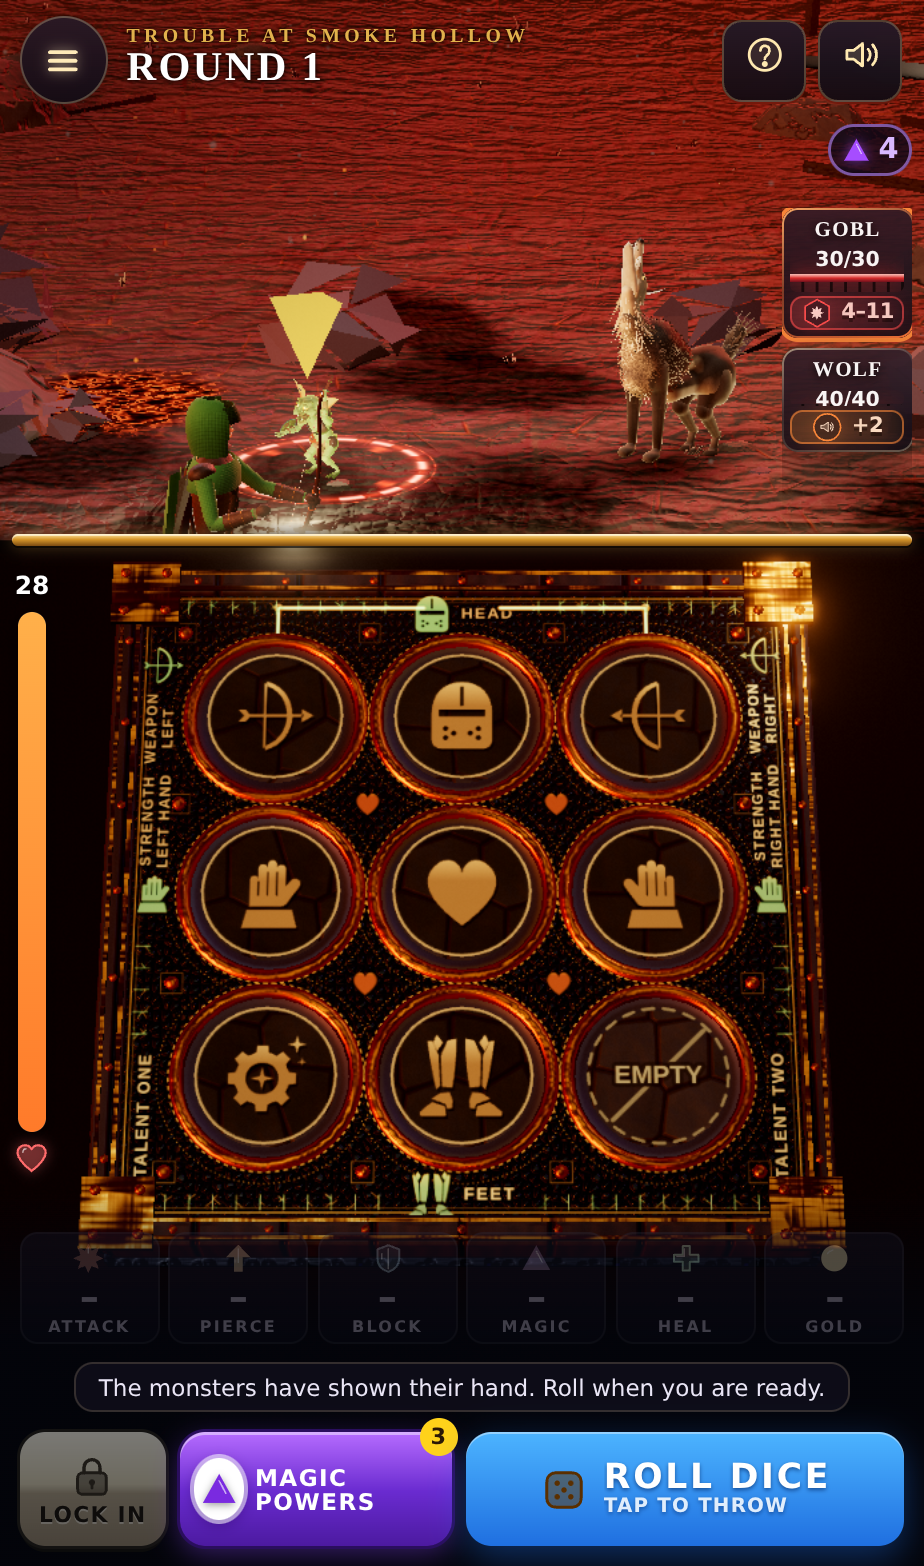
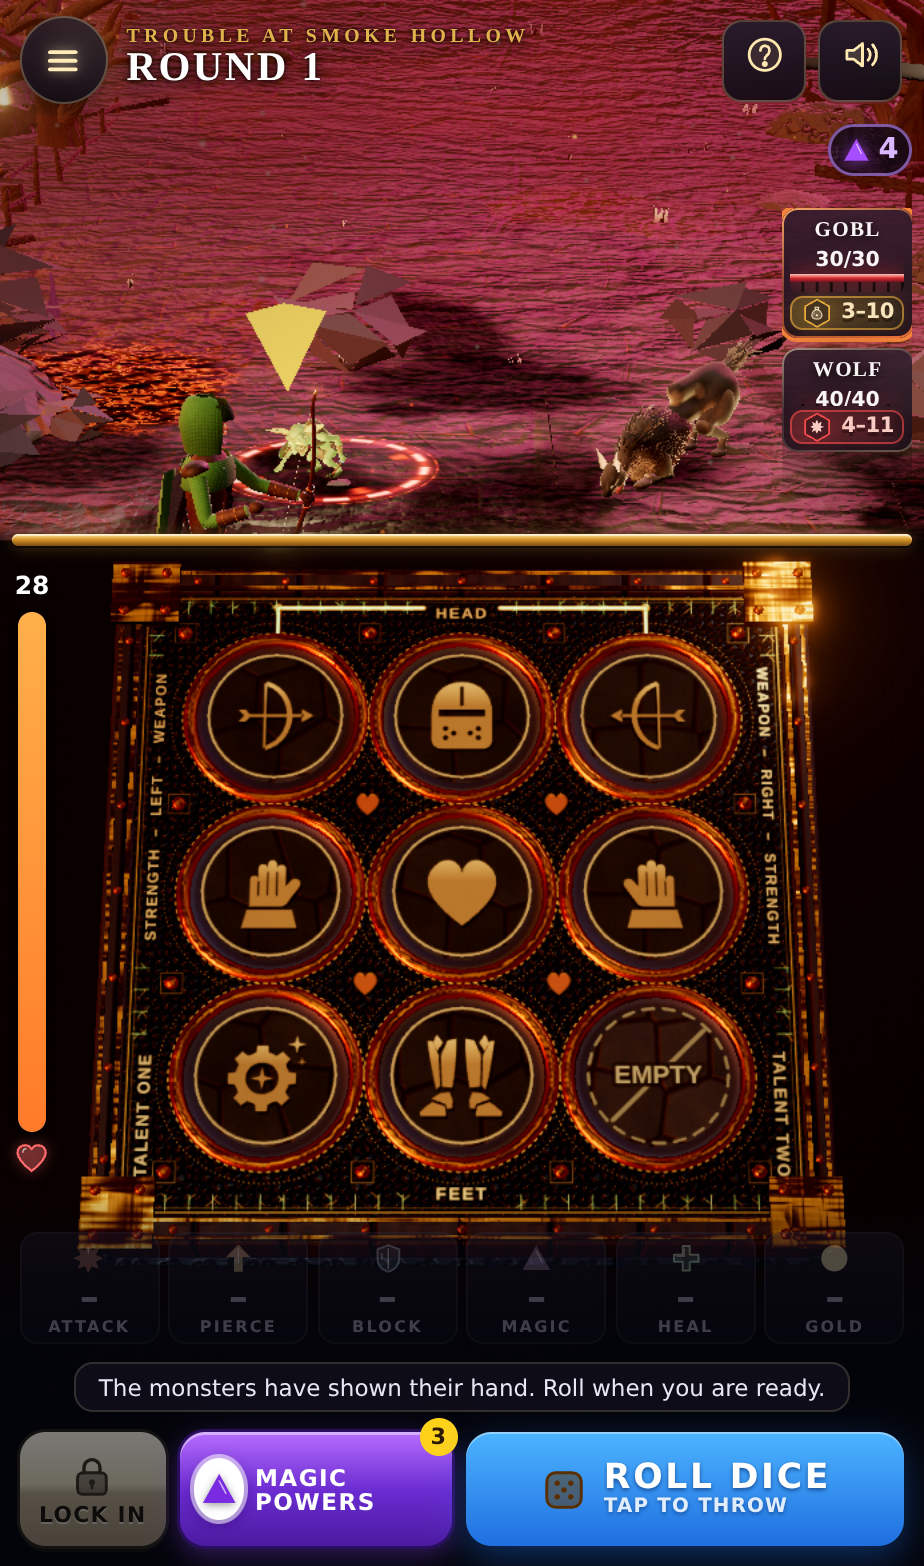
Border: names only; one line per side, STRENGTH – LEFT – WEAPON and its mirror
Claude-Session: https://claude.ai/code/session_01DujDBar2Jc6ufUDBkRgkDu

diff --git a/index.html b/index.html
@@ -5,7 +5,7 @@
   <meta name="viewport" content="width=device-width, initial-scale=1, viewport-fit=cover">
   <meta name="theme-color" content="#04060d">
   <title>QuestDice</title>
-  <script type="importmap">{"imports":{"three":"./vendor/three/build/three.module.js","three/addons/":"./vendor/three/examples/jsm/","./js/auction.js":"./js/auction.js?v=20261007h","./js/audio.js":"./js/audio.js?v=20261007h","./js/coach.js":"./js/coach.js?v=20261007h","./js/data.js":"./js/data.js?v=20261007h","./js/die3d.js":"./js/die3d.js?v=20261007h","./js/dom.js":"./js/dom.js?v=20261007h","./js/engine.js":"./js/engine.js?v=20261007h","./js/fx.js":"./js/fx.js?v=20261007h","./js/g3/battle3d.js":"./js/g3/battle3d.js?v=20261007h","./js/g3/director.js":"./js/g3/director.js?v=20261007h","./js/g3/hudkit.js":"./js/g3/hudkit.js?v=20261007h","./js/g3/icons.js":"./js/g3/icons.js?v=20261007h","./js/g3/portrait.js":"./js/g3/portrait.js?v=20261007h","./js/g3/screens.js":"./js/g3/screens.js?v=20261007h","./js/g3/scrui.js":"./js/g3/scrui.js?v=20261007h","./js/g3/stubs.js":"./js/g3/stubs.js?v=20261007h","./js/g3/world.js":"./js/g3/world.js?v=20261007h","./js/gfx/actors/base.js":"./js/gfx/actors/base.js?v=20261007h","./js/gfx/actors/common.js":"./js/gfx/actors/common.js?v=20261007h","./js/gfx/actors/cultist.js":"./js/gfx/actors/cultist.js?v=20261007h","./js/gfx/actors/goblin.js":"./js/gfx/actors/goblin.js?v=20261007h","./js/gfx/actors/goblinking.js":"./js/gfx/actors/goblinking.js?v=20261007h","./js/gfx/actors/hero.js":"./js/gfx/actors/hero.js?v=20261007h","./js/gfx/actors/heroclips.js":"./js/gfx/actors/heroclips.js?v=20261007h","./js/gfx/actors/herocloth.js":"./js/gfx/actors/herocloth.js?v=20261007h","./js/gfx/actors/herokit.js":"./js/gfx/actors/herokit.js?v=20261007h","./js/gfx/actors/index.js":"./js/gfx/actors/index.js?v=20261007h","./js/gfx/actors/ogre.js":"./js/gfx/actors/ogre.js?v=20261007h","./js/gfx/actors/parts.js":"./js/gfx/actors/parts.js?v=20261007h","./js/gfx/actors/parts2.js":"./js/gfx/actors/parts2.js?v=20261007h","./js/gfx/actors/wolf.js":"./js/gfx/actors/wolf.js?v=20261007h","./js/gfx/arena.js":"./js/gfx/arena.js?v=20261007h","./js/gfx/arena/common.js":"./js/gfx/arena/common.js?v=20261007h","./js/gfx/arena/flora.js":"./js/gfx/arena/flora.js?v=20261007h","./js/gfx/arena/fx.js":"./js/gfx/arena/fx.js?v=20261007h","./js/gfx/arena/ground.js":"./js/gfx/arena/ground.js?v=20261007h","./js/gfx/arena/helpers.js":"./js/gfx/arena/helpers.js?v=20261007h","./js/gfx/arena/kit.js":"./js/gfx/arena/kit.js?v=20261007h","./js/gfx/arena/places1.js":"./js/gfx/arena/places1.js?v=20261007h","./js/gfx/arena/places2.js":"./js/gfx/arena/places2.js?v=20261007h","./js/gfx/arena/props.js":"./js/gfx/arena/props.js?v=20261007h","./js/gfx/arena/sky.js":"./js/gfx/arena/sky.js?v=20261007h","./js/gfx/arena/tex.js":"./js/gfx/arena/tex.js?v=20261007h","./js/gfx/core.js":"./js/gfx/core.js?v=20261007h","./js/gfx/demo/actor.js":"./js/gfx/demo/actor.js?v=20261007h","./js/gfx/demo/arena.js":"./js/gfx/demo/arena.js?v=20261007h","./js/gfx/demo/dicegallery.js":"./js/gfx/demo/dicegallery.js?v=20261007h","./js/gfx/demo/dicelab.js":"./js/gfx/demo/dicelab.js?v=20261007h","./js/gfx/demo/materials.js":"./js/gfx/demo/materials.js?v=20261007h","./js/gfx/demo/tray.js":"./js/gfx/demo/tray.js?v=20261007h","./js/gfx/demo/vfx.js":"./js/gfx/demo/vfx.js?v=20261007h","./js/gfx/demo/weapons.js":"./js/gfx/demo/weapons.js?v=20261007h","./js/gfx/dice/art.js":"./js/gfx/dice/art.js?v=20261007h","./js/gfx/dice/dice.js":"./js/gfx/dice/dice.js?v=20261007h","./js/gfx/dice/faces.js":"./js/gfx/dice/faces.js?v=20261007h","./js/gfx/dice/fx.js":"./js/gfx/dice/fx.js?v=20261007h","./js/gfx/dice/poly.js":"./js/gfx/dice/poly.js?v=20261007h","./js/gfx/dice/roll.js":"./js/gfx/dice/roll.js?v=20261007h","./js/gfx/dice/tray.js":"./js/gfx/dice/tray.js?v=20261007h","./js/gfx/env.js":"./js/gfx/env.js?v=20261007h","./js/gfx/mats.js":"./js/gfx/mats.js?v=20261007h","./js/gfx/noise.js":"./js/gfx/noise.js?v=20261007h","./js/gfx/particles.js":"./js/gfx/particles.js?v=20261007h","./js/gfx/post.js":"./js/gfx/post.js?v=20261007h","./js/gfx/rig.js":"./js/gfx/rig.js?v=20261007h","./js/gfx/tex.js":"./js/gfx/tex.js?v=20261007h","./js/gfx/util.js":"./js/gfx/util.js?v=20261007h","./js/gfx/vfx.js":"./js/gfx/vfx.js?v=20261007h","./js/gfx/vfx/quads.js":"./js/gfx/vfx/quads.js?v=20261007h","./js/gfx/vfx/shaders.js":"./js/gfx/vfx/shaders.js?v=20261007h","./js/gfx/vfx/strips.js":"./js/gfx/vfx/strips.js?v=20261007h","./js/gfx/vfx/text.js":"./js/gfx/vfx/text.js?v=20261007h","./js/gfx/vfx/textures.js":"./js/gfx/vfx/textures.js?v=20261007h","./js/gfx/weapons.js":"./js/gfx/weapons.js?v=20261007h","./js/main.js":"./js/main.js?v=20261007h","./js/mat.js":"./js/mat.js?v=20261007h","./js/net.js":"./js/net.js?v=20261007h","./js/roads.js":"./js/roads.js?v=20261007h","./js/roomui.js":"./js/roomui.js?v=20261007h","./js/save.js":"./js/save.js?v=20261007h","./js/table.js":"./js/table.js?v=20261007h","./js/ui.js":"./js/ui.js?v=20261007h","./js/view.js":"./js/view.js?v=20261007h"}}</script>
+  <script type="importmap">{"imports":{"three":"./vendor/three/build/three.module.js","three/addons/":"./vendor/three/examples/jsm/","./js/auction.js":"./js/auction.js?v=20261007i","./js/audio.js":"./js/audio.js?v=20261007i","./js/coach.js":"./js/coach.js?v=20261007i","./js/data.js":"./js/data.js?v=20261007i","./js/die3d.js":"./js/die3d.js?v=20261007i","./js/dom.js":"./js/dom.js?v=20261007i","./js/engine.js":"./js/engine.js?v=20261007i","./js/fx.js":"./js/fx.js?v=20261007i","./js/g3/battle3d.js":"./js/g3/battle3d.js?v=20261007i","./js/g3/director.js":"./js/g3/director.js?v=20261007i","./js/g3/hudkit.js":"./js/g3/hudkit.js?v=20261007i","./js/g3/icons.js":"./js/g3/icons.js?v=20261007i","./js/g3/portrait.js":"./js/g3/portrait.js?v=20261007i","./js/g3/screens.js":"./js/g3/screens.js?v=20261007i","./js/g3/scrui.js":"./js/g3/scrui.js?v=20261007i","./js/g3/stubs.js":"./js/g3/stubs.js?v=20261007i","./js/g3/world.js":"./js/g3/world.js?v=20261007i","./js/gfx/actors/base.js":"./js/gfx/actors/base.js?v=20261007i","./js/gfx/actors/common.js":"./js/gfx/actors/common.js?v=20261007i","./js/gfx/actors/cultist.js":"./js/gfx/actors/cultist.js?v=20261007i","./js/gfx/actors/goblin.js":"./js/gfx/actors/goblin.js?v=20261007i","./js/gfx/actors/goblinking.js":"./js/gfx/actors/goblinking.js?v=20261007i","./js/gfx/actors/hero.js":"./js/gfx/actors/hero.js?v=20261007i","./js/gfx/actors/heroclips.js":"./js/gfx/actors/heroclips.js?v=20261007i","./js/gfx/actors/herocloth.js":"./js/gfx/actors/herocloth.js?v=20261007i","./js/gfx/actors/herokit.js":"./js/gfx/actors/herokit.js?v=20261007i","./js/gfx/actors/index.js":"./js/gfx/actors/index.js?v=20261007i","./js/gfx/actors/ogre.js":"./js/gfx/actors/ogre.js?v=20261007i","./js/gfx/actors/parts.js":"./js/gfx/actors/parts.js?v=20261007i","./js/gfx/actors/parts2.js":"./js/gfx/actors/parts2.js?v=20261007i","./js/gfx/actors/wolf.js":"./js/gfx/actors/wolf.js?v=20261007i","./js/gfx/arena.js":"./js/gfx/arena.js?v=20261007i","./js/gfx/arena/common.js":"./js/gfx/arena/common.js?v=20261007i","./js/gfx/arena/flora.js":"./js/gfx/arena/flora.js?v=20261007i","./js/gfx/arena/fx.js":"./js/gfx/arena/fx.js?v=20261007i","./js/gfx/arena/ground.js":"./js/gfx/arena/ground.js?v=20261007i","./js/gfx/arena/helpers.js":"./js/gfx/arena/helpers.js?v=20261007i","./js/gfx/arena/kit.js":"./js/gfx/arena/kit.js?v=20261007i","./js/gfx/arena/places1.js":"./js/gfx/arena/places1.js?v=20261007i","./js/gfx/arena/places2.js":"./js/gfx/arena/places2.js?v=20261007i","./js/gfx/arena/props.js":"./js/gfx/arena/props.js?v=20261007i","./js/gfx/arena/sky.js":"./js/gfx/arena/sky.js?v=20261007i","./js/gfx/arena/tex.js":"./js/gfx/arena/tex.js?v=20261007i","./js/gfx/core.js":"./js/gfx/core.js?v=20261007i","./js/gfx/demo/actor.js":"./js/gfx/demo/actor.js?v=20261007i","./js/gfx/demo/arena.js":"./js/gfx/demo/arena.js?v=20261007i","./js/gfx/demo/dicegallery.js":"./js/gfx/demo/dicegallery.js?v=20261007i","./js/gfx/demo/dicelab.js":"./js/gfx/demo/dicelab.js?v=20261007i","./js/gfx/demo/materials.js":"./js/gfx/demo/materials.js?v=20261007i","./js/gfx/demo/tray.js":"./js/gfx/demo/tray.js?v=20261007i","./js/gfx/demo/vfx.js":"./js/gfx/demo/vfx.js?v=20261007i","./js/gfx/demo/weapons.js":"./js/gfx/demo/weapons.js?v=20261007i","./js/gfx/dice/art.js":"./js/gfx/dice/art.js?v=20261007i","./js/gfx/dice/dice.js":"./js/gfx/dice/dice.js?v=20261007i","./js/gfx/dice/faces.js":"./js/gfx/dice/faces.js?v=20261007i","./js/gfx/dice/fx.js":"./js/gfx/dice/fx.js?v=20261007i","./js/gfx/dice/poly.js":"./js/gfx/dice/poly.js?v=20261007i","./js/gfx/dice/roll.js":"./js/gfx/dice/roll.js?v=20261007i","./js/gfx/dice/tray.js":"./js/gfx/dice/tray.js?v=20261007i","./js/gfx/env.js":"./js/gfx/env.js?v=20261007i","./js/gfx/mats.js":"./js/gfx/mats.js?v=20261007i","./js/gfx/noise.js":"./js/gfx/noise.js?v=20261007i","./js/gfx/particles.js":"./js/gfx/particles.js?v=20261007i","./js/gfx/post.js":"./js/gfx/post.js?v=20261007i","./js/gfx/rig.js":"./js/gfx/rig.js?v=20261007i","./js/gfx/tex.js":"./js/gfx/tex.js?v=20261007i","./js/gfx/util.js":"./js/gfx/util.js?v=20261007i","./js/gfx/vfx.js":"./js/gfx/vfx.js?v=20261007i","./js/gfx/vfx/quads.js":"./js/gfx/vfx/quads.js?v=20261007i","./js/gfx/vfx/shaders.js":"./js/gfx/vfx/shaders.js?v=20261007i","./js/gfx/vfx/strips.js":"./js/gfx/vfx/strips.js?v=20261007i","./js/gfx/vfx/text.js":"./js/gfx/vfx/text.js?v=20261007i","./js/gfx/vfx/textures.js":"./js/gfx/vfx/textures.js?v=20261007i","./js/gfx/weapons.js":"./js/gfx/weapons.js?v=20261007i","./js/main.js":"./js/main.js?v=20261007i","./js/mat.js":"./js/mat.js?v=20261007i","./js/net.js":"./js/net.js?v=20261007i","./js/roads.js":"./js/roads.js?v=20261007i","./js/roomui.js":"./js/roomui.js?v=20261007i","./js/save.js":"./js/save.js?v=20261007i","./js/table.js":"./js/table.js?v=20261007i","./js/ui.js":"./js/ui.js?v=20261007i","./js/view.js":"./js/view.js?v=20261007i"}}</script>
   <meta name="description" content="Roll your body. Break the dark. A fantasy dice campaign for one to six heroes, each on their own phone.">
   <meta property="og:title" content="QuestDice">
   <meta property="og:description" content="Roll your body. Break the dark.">
@@ -13,10 +13,10 @@
   <link rel="preconnect" href="https://fonts.googleapis.com">
   <link rel="preconnect" href="https://fonts.gstatic.com" crossorigin>
   <link href="https://fonts.googleapis.com/css2?family=Archivo+Black&family=Cormorant+Garamond:ital,wght@0,500;0,600;1,500&family=Inter:wght@400;500;600;700&family=Oxanium:wght@500;600;700;800&display=swap" rel="stylesheet">
-  <link rel="stylesheet" href="css/style.css?v=20261007h">
-  <link rel="stylesheet" href="css/g3.css?v=20261007h">
-  <link rel="stylesheet" href="css/screens.css?v=20261007h">
-  <link rel="stylesheet" href="css/hud.css?v=20261007h">
+  <link rel="stylesheet" href="css/style.css?v=20261007i">
+  <link rel="stylesheet" href="css/g3.css?v=20261007i">
+  <link rel="stylesheet" href="css/screens.css?v=20261007i">
+  <link rel="stylesheet" href="css/hud.css?v=20261007i">
 </head>
 <body>
   <div class="app-frame">
@@ -32,6 +32,6 @@
   <div id="toast" role="status"></div>
   <div id="modal"></div>
   <noscript><p style="padding:2rem;color:#fff">QuestDice needs JavaScript.</p></noscript>
-  <script type="module" src="js/main.js?v=20261007h"></script>
+  <script type="module" src="js/main.js?v=20261007i"></script>
 </body>
 </html>

diff --git a/js/gfx/dice/art.js b/js/gfx/dice/art.js
@@ -58,19 +58,10 @@ export function paintDecals({ size, FH, pitch, theme, hero, twoHanded, dishR, we
   const T = (lines, fs) => { a.font = FONT(fs); return { lines, fs, L: Math.max(...lines.map((t) => a.measureText(t).width + t.length * 0.012 * k)) / k }; };
   const IC = 0.3; const GAP = 0.05; const ZW = -(FH - 0.36); // weapon icons sit at the top corners
   const units = [];
-  { // head and feet: icon then name, centred on the top and bottom margins
-    for (const [ic, nm, z, sd] of [['helmet', 'HEAD', -ox, 't'], ['boots', 'FEET', ox, 'b']]) {
-      const t = T([nm], 0.11); const U = IC + GAP + t.L;
-      units.push({ side: sd, x: 0, z, parts: [{ icon: ic, size: 0.31, at: -U / 2 + IC / 2 }, { text: t, at: U / 2 - t.L / 2 }] });
-    }
-  }
-  for (const [sd, flip, wi, wname, hand] of [['l', false, wL, 'LEFT', 'LEFT HAND'], ['r', true, wR, 'RIGHT', 'RIGHT HAND']]) {
-    const ts = T(['STRENGTH', hand], 0.1); const tw = T(['WEAPON', wname], 0.1);
-    // both edges read upward from the middle: fist, STRENGTH / hand, WEAPON / side, weapon icon in the corner
-    const c1 = -(0.17 + ts.L / 2); const c2 = c1 - ts.L / 2 - 0.07 - tw.L / 2; const zi = c2 - tw.L / 2 - GAP - IC / 2;
-    units.push({ side: sd, x: sd === 'l' ? -ox : ox, flip, parts: [
-      { icon: 'gauntlet', size: 0.3, at: 0 }, { text: ts, at: c1 }, { text: tw, at: c2 }, { icon: wi, size: IC, at: zi },
-    ] });
+  // names only, no icons: HEAD and FEET centred top and bottom; each side reads STRENGTH – LEFT – WEAPON from the hand towards the weapon
+  for (const [nm, z, sd] of [['HEAD', -ox, 't'], ['FEET', ox, 'b']]) units.push({ side: sd, x: 0, z, parts: [{ text: T([nm], 0.11), at: 0 }] });
+  for (const [sd, line] of [['l', 'STRENGTH  –  LEFT  –  WEAPON'], ['r', 'WEAPON  –  RIGHT  –  STRENGTH']]) {
+    units.push({ side: sd, x: sd === 'l' ? -ox : ox, parts: [{ text: T([line], 0.1), at: -pitch / 2 }] });
   }
   for (const sd of ['l', 'r']) { // talent dice: names only, no symbol
     const t = T([sd === 'l' ? 'TALENT ONE' : 'TALENT TWO'], 0.11);
@@ -128,7 +119,7 @@ export function paintDecals({ size, FH, pitch, theme, hero, twoHanded, dishR, we
     }
   };
   for (const n of UNITS) {
-    const horiz = n.side === 't' || n.side === 'b'; const rot = horiz ? 0 : -Math.PI / 2;
+    const horiz = n.side === 't' || n.side === 'b'; const rot = n.side === 'l' ? -Math.PI / 2 : n.side === 'r' ? Math.PI / 2 : 0; // left reads upward, right reads downward
     // on the left edge the text reads upward, so 'at' (measured along +z) is mirrored for it
     for (const p of n.parts) {
       const along = p.at; const px = horiz ? n.x + along : n.x; const pz = horiz ? n.z : along;
